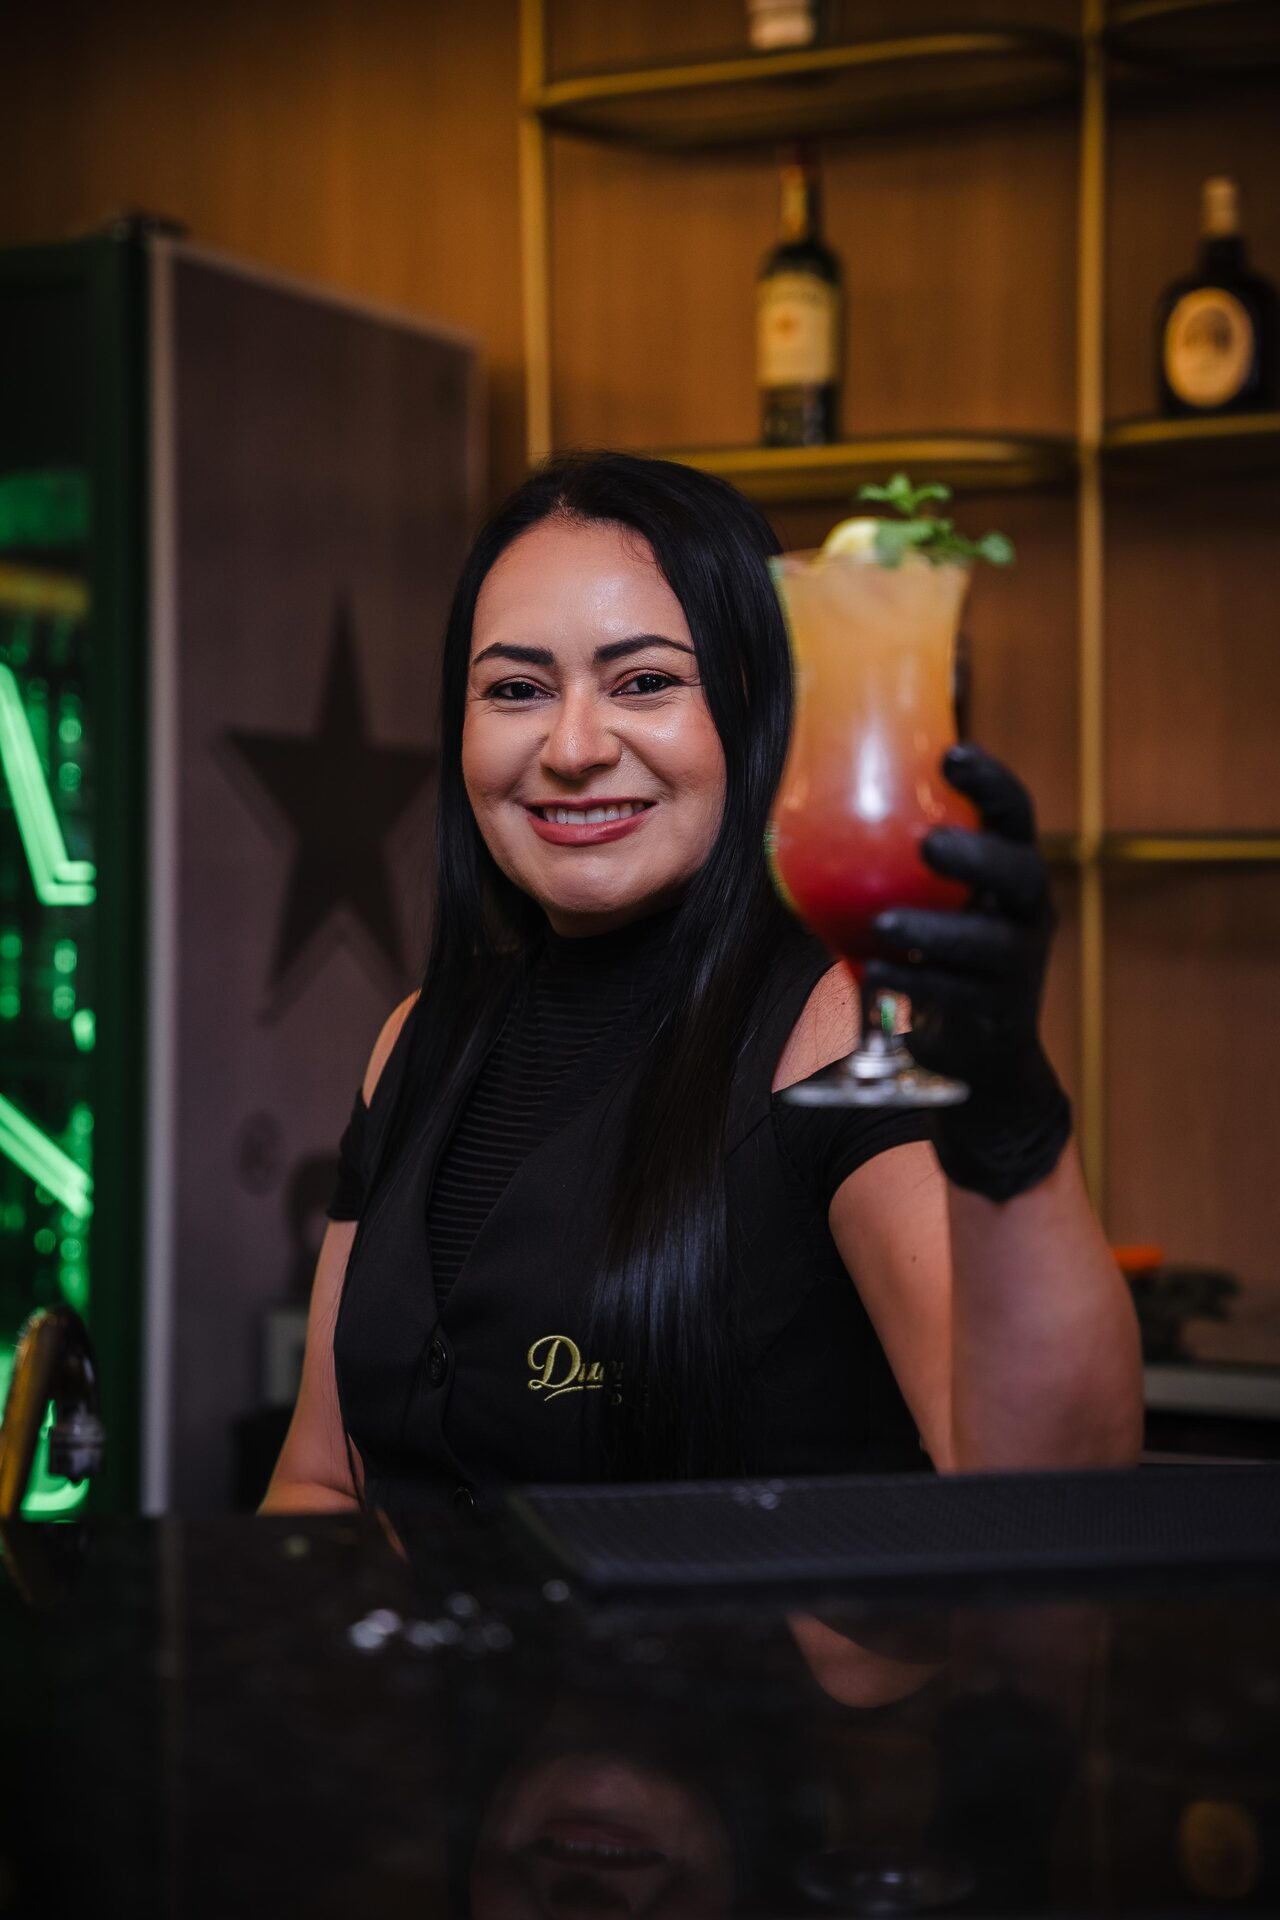
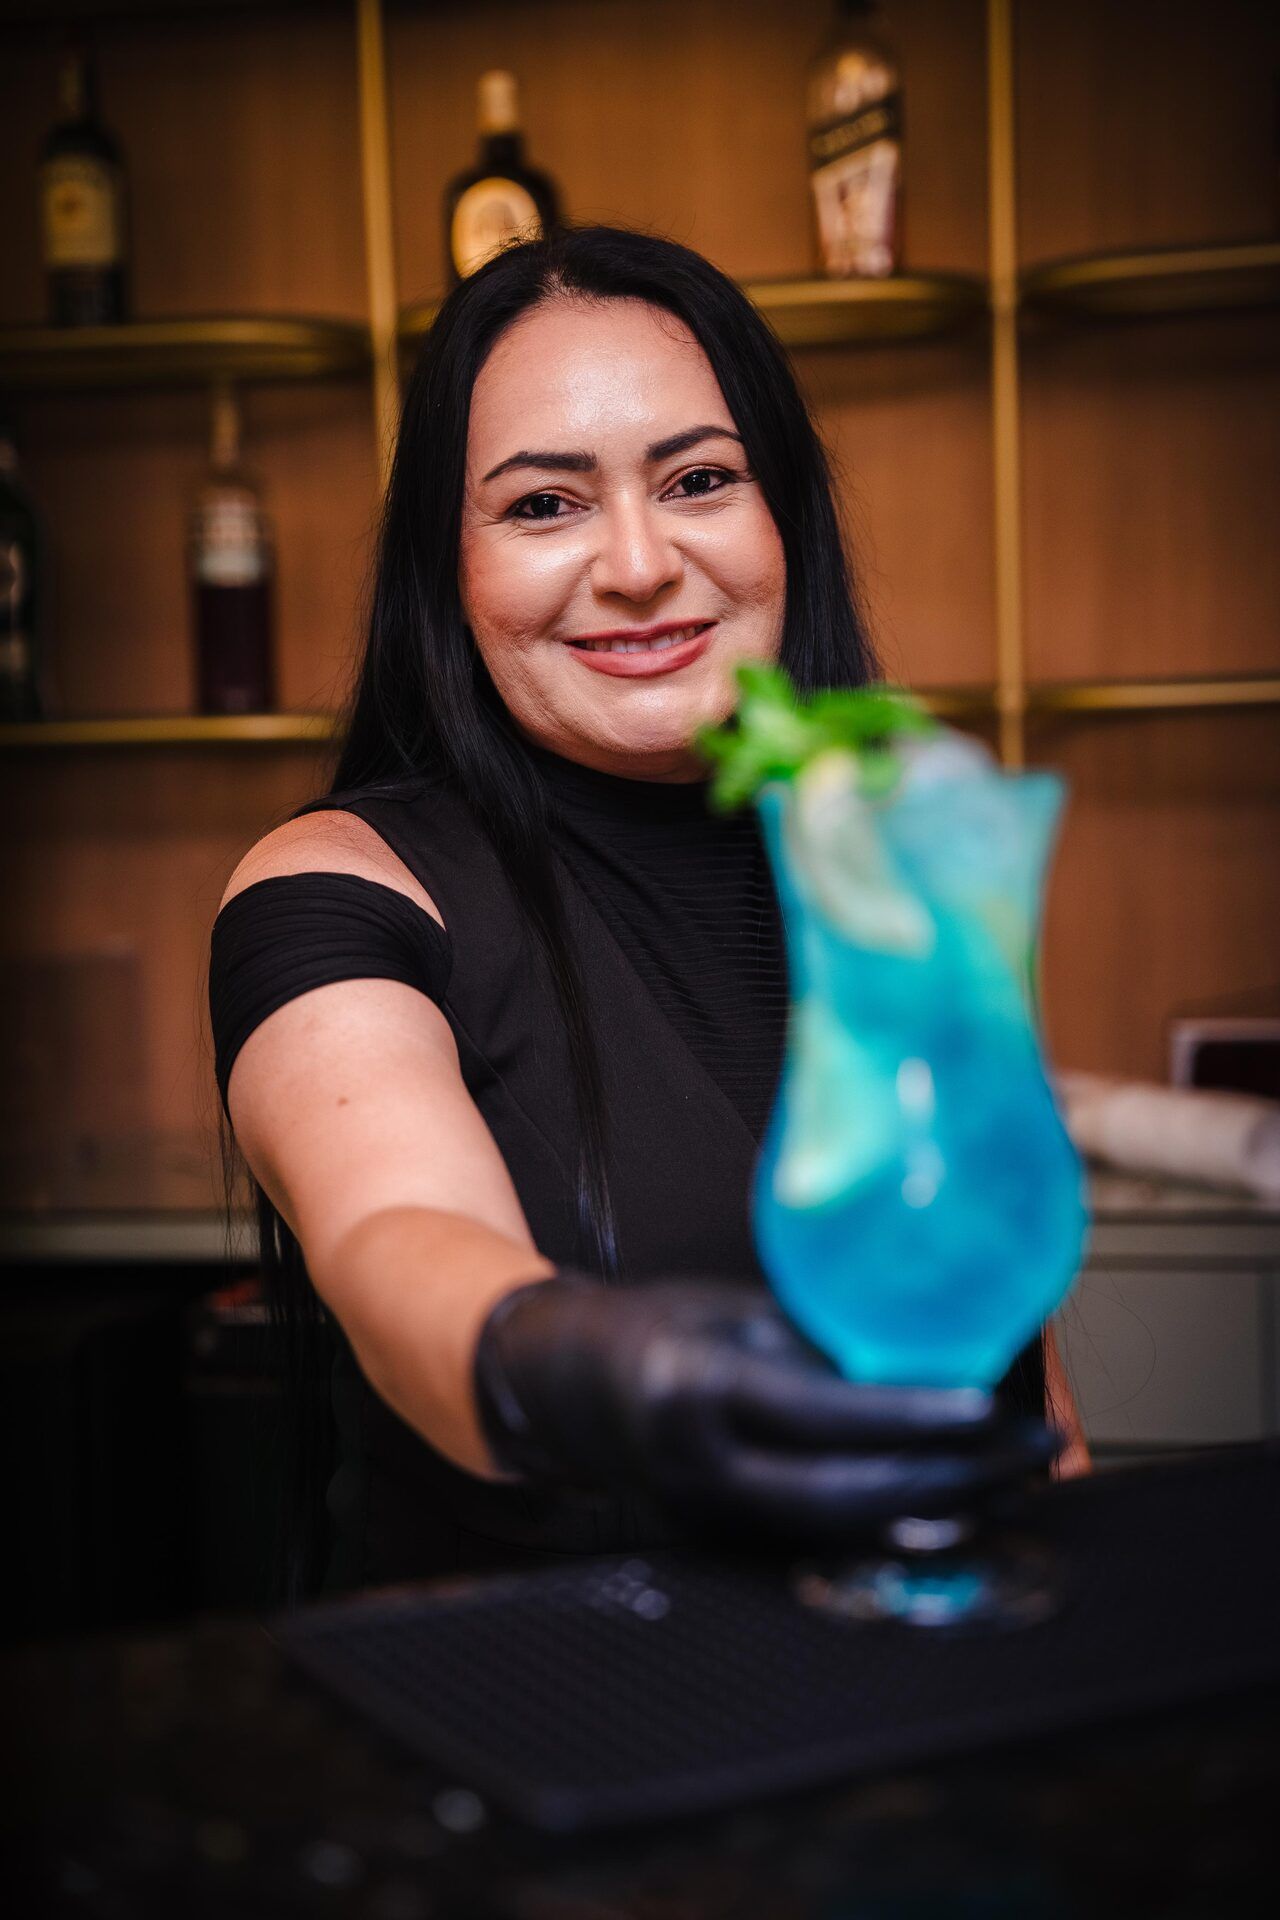
Swap hero/sobre photos

diff --git a/index.html b/index.html
@@ -37,7 +37,7 @@
       </div>
     </div>
     <div class="hero-portrait">
-      <img src="images/hero.jpg" alt="Duquesa apresentando um coquetel azul autoral">
+      <img src="images/hero.jpg" alt="Duquesa apresentando um coquetel autoral">
       <div class="hero-portrait-frame" aria-hidden="true"></div>
     </div>
   </div>
@@ -48,7 +48,7 @@
 <section id="sobre">
   <div class="container sobre">
     <div class="sobre-img">
-      <img src="images/sobre.jpg" alt="Duquesa sorrindo, servindo um coquetel para o convidado">
+      <img src="images/sobre.jpg" alt="Duquesa sorrindo, servindo um coquetel azul para o convidado">
       <div class="sobre-frame" aria-hidden="true"></div>
     </div>
     <div class="reveal">
